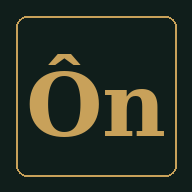
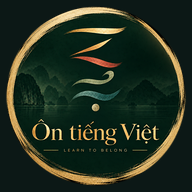
Add files via upload

Changed region(s): [[0.0312, 0.0312, 0.9688, 0.9688], [0.0938, 0.0938, 0.125, 0.125]]

diff --git a/index.html b/index.html
@@ -3,13 +3,24 @@
 <head>
 <meta charset="utf-8">
 <meta name="viewport" content="width=device-width, initial-scale=1, viewport-fit=cover">
-<meta name="theme-color" content="#101E1B">
+<meta name="theme-color" content="#0C1816">
 <meta name="apple-mobile-web-app-capable" content="yes">
 <meta name="apple-mobile-web-app-status-bar-style" content="black-translucent">
 <meta name="apple-mobile-web-app-title" content="Ôn tiếng Việt">
+<meta name="application-name" content="Ôn tiếng Việt">
+<meta name="mobile-web-app-capable" content="yes">
+<meta name="description" content="Ôn tiếng Việt — Alexandre’s personal Vietnamese learning app. Learn to belong.">
 <link rel="manifest" href="manifest.webmanifest">
-<link rel="apple-touch-icon" href="icon-192.png">
-<title>Ôn tiếng Việt · Alexandre · v7</title>
+<link rel="icon" href="favicon.ico" sizes="any">
+<link rel="icon" type="image/png" sizes="16x16" href="favicon-16.png">
+<link rel="icon" type="image/png" sizes="32x32" href="favicon-32.png">
+<link rel="icon" type="image/png" sizes="48x48" href="favicon-48.png">
+<link rel="apple-touch-icon" sizes="180x180" href="apple-touch-icon.png">
+<meta property="og:title" content="Ôn tiếng Việt · Alexandre">
+<meta property="og:description" content="Learn to belong — a personal Vietnamese learning app with a Southern focus.">
+<meta property="og:image" content="https://alexandregermouty.github.io/On-tu-vung/logo.png">
+<meta property="og:type" content="website">
+<title>Ôn tiếng Việt · Alexandre</title>
 <style>
 
 :root{
@@ -790,6 +801,14 @@ body.in-session .opt{min-height:54px}body.in-session .conf{min-height:48px}body.
 @media(max-width:520px){.today-tone-orbit{display:none!important}.course-title-row{align-items:flex-start;flex-direction:column;gap:3px}.course-count{white-space:normal}}
 @media(max-width:390px){:root{--phone-gutter:14px}.brand-tones{display:none}.brand-sub{display:none}.today-h{font-size:38px}.quickrow{margin-left:-14px;margin-right:-14px;padding-left:14px;padding-right:14px}.class-row{grid-template-columns:48px minmax(0,1fr)}.class-state{grid-column:2;font-size:10px;margin-top:-5px}}
 
+
+/* V7.1 brand image */
+.brand-logo{width:46px;height:46px;object-fit:contain;display:block;flex:0 0 auto;filter:drop-shadow(0 5px 12px rgba(0,0,0,.18));transition:transform .18s var(--ease),opacity .18s}
+.brand-logo:hover{transform:translateY(-1px)}
+body.in-session .brand-logo{width:34px;height:34px;opacity:.76}
+@media(max-width:700px){.brand-logo{width:40px;height:40px}.brand-lockup{gap:10px}}
+@media(max-width:390px){.brand-logo{width:34px;height:34px}.brand-copy h1{font-size:19px}}
+
 </style>
 </head>
 <body>
@@ -797,13 +816,10 @@ body.in-session .opt{min-height:54px}body.in-session .conf{min-height:48px}body.
 
   <header class="app-header">
     <div class="brand-lockup">
-      <div class="brand-tones" aria-hidden="true">
-        <span class="tone-ngang"></span><span class="tone-huyen"></span><span class="tone-sac"></span>
-        <span class="tone-hoi"></span><span class="tone-nga"></span><span class="tone-nang"></span>
-      </div>
+      <img class="brand-logo" src="logo.png" alt="Ôn tiếng Việt logo" width="46" height="46">
       <div class="brand-copy">
         <h1>Ôn tiếng Việt</h1>
-        <div class="brand-sub">Alexandre · Miền Nam</div>
+        <div class="brand-sub">Alexandre · Miền Nam · Learn to belong</div>
       </div>
     </div>
     <div class="hdr-btns">

diff --git a/sw.js b/sw.js
@@ -1,26 +1,46 @@
-/* cache name bumped for v3 — the old v1/v2 caches are cleared on activate */
-const CACHE = "vivu-v3";
-const ASSETS = ["./", "./index.html", "./manifest.webmanifest",
-                "./icon-192.png", "./icon-512.png", "./icon-maskable-512.png"];
+/* Ôn tiếng Việt · v7.1 brand/PWA cache */
+const CACHE = "on-tieng-viet-v7-1";
+const ASSETS = [
+  "./",
+  "./index.html",
+  "./manifest.webmanifest",
+  "./logo.png",
+  "./favicon.ico",
+  "./favicon-16.png",
+  "./favicon-32.png",
+  "./favicon-48.png",
+  "./apple-touch-icon.png",
+  "./icon-192.png",
+  "./icon-512.png",
+  "./icon-maskable-512.png"
+];
 
-self.addEventListener("install", e => {
-  e.waitUntil(caches.open(CACHE).then(c => c.addAll(ASSETS)).then(() => self.skipWaiting()));
+self.addEventListener("install", event => {
+  event.waitUntil(
+    caches.open(CACHE)
+      .then(cache => cache.addAll(ASSETS))
+      .then(() => self.skipWaiting())
+  );
 });
-self.addEventListener("activate", e => {
-  e.waitUntil(caches.keys()
-    .then(ks => Promise.all(ks.filter(k => k !== CACHE).map(k => caches.delete(k))))
-    .then(() => self.clients.claim()));
+
+self.addEventListener("activate", event => {
+  event.waitUntil(
+    caches.keys()
+      .then(keys => Promise.all(keys.filter(key => key !== CACHE).map(key => caches.delete(key))))
+      .then(() => self.clients.claim())
+  );
 });
-/* network first, so a fresh upload wins as soon as the device is online */
-self.addEventListener("fetch", e => {
-  if (e.request.method !== "GET") return;
-  e.respondWith(
-    fetch(e.request)
-      .then(r => {
-        const copy = r.clone();
-        caches.open(CACHE).then(c => c.put(e.request, copy)).catch(() => {});
-        return r;
+
+/* Network first: a new GitHub Pages deployment replaces the cached app quickly. */
+self.addEventListener("fetch", event => {
+  if (event.request.method !== "GET") return;
+  event.respondWith(
+    fetch(event.request)
+      .then(response => {
+        const copy = response.clone();
+        caches.open(CACHE).then(cache => cache.put(event.request, copy)).catch(() => {});
+        return response;
       })
-      .catch(() => caches.match(e.request).then(r => r || caches.match("./index.html")))
+      .catch(() => caches.match(event.request).then(cached => cached || caches.match("./index.html")))
   );
 });

diff --git a/README.md b/README.md
@@ -1,36 +1,40 @@
-# Ôn tiếng Việt — Alexandre's training system
+# Ôn tiếng Việt
 
-A single standalone HTML file. Open `index.html` in any browser and it works.
-Serve it over https (GitHub Pages) and it also installs to a phone home screen
-and keeps your progress between sessions.
+A personal Vietnamese learning PWA for Alexandre, with a Southern Vietnamese focus.
 
-## Updating an existing install
+**Learn to belong.**
 
-Upload `index.html` and `sw.js` to the same repository, keeping the filenames.
-The service-worker cache is `vivu-v3`, so the old cached copy is discarded on
-first load. Close the installed app completely and reopen it once after
-uploading. Your review history survives — it is keyed to the site origin, not
-to the file.
+## GitHub Pages deployment
 
-Progress from the previous version is imported automatically the first time
-this version loads: old Leitner boxes become recognition mastery, and XP and
-streak carry over.
+This repository is a static app: there is no build step.
 
-## Audio
+1. Upload the files in this folder to the root of `alexandregermouty/On-tu-vung`.
+2. On GitHub, open **Settings → Pages**.
+3. Under **Build and deployment**, choose **Deploy from a branch**.
+4. Select the `main` branch and `/ (root)`, then save.
+5. The site should be available at `https://alexandregermouty.github.io/On-tu-vung/` once GitHub Pages finishes publishing.
 
-Everything spoken uses the system text-to-speech voice. For the southern accent
-install **Vi Vu** (RHVoice) and set RHVoice as the system engine:
+All app URLs are relative, so the project works from the `/On-tu-vung/` repository path.
 
-Android → install RHVoice → choose Tiếng Việt → install Vi Vu →
-Settings → Accessibility → Text-to-speech output → RHVoice.
+## Phone installation
 
-The 🔊 panel in the app shows which voice it found.
+### iPhone / iPad
+Open the GitHub Pages site in Safari → **Share** → **Add to Home Screen**. The `apple-touch-icon.png` asset is used for the home-screen icon.
 
-## What is in the file
+### Android
+Open the site in Chrome → browser menu → **Install app** / **Add to Home screen**. Android uses the PWA manifest and the 192/512 px icons. A maskable 512 px icon is included for adaptive icon shapes.
 
-- `index.html` — the whole application: course content, learning engine, interface
-- `sw.js` — offline cache
-- `manifest.webmanifest`, `icon-*.png` — install metadata
+## Branding assets
 
-Course content lives in the first two blocks of the script and carries no
-application logic, so new lessons can be added without touching the engine.
+- `logo.png` — full transparent-background logo used in the app
+- `favicon.ico`, `favicon-16.png`, `favicon-32.png`, `favicon-48.png` — browser favicons
+- `apple-touch-icon.png` — iOS home-screen icon
+- `icon-192.png`, `icon-512.png` — standard PWA icons
+- `icon-maskable-512.png` — Android maskable icon with safe padding
+- `icon-1024.png` — high-resolution master app icon
+
+## Updating the app
+
+`sw.js` uses a versioned cache. When publishing a future app update, bump the `CACHE` string so existing installations replace the previous cached assets promptly.
+
+Learner progress remains in the browser's local storage / IndexedDB and is not stored in this repository.
